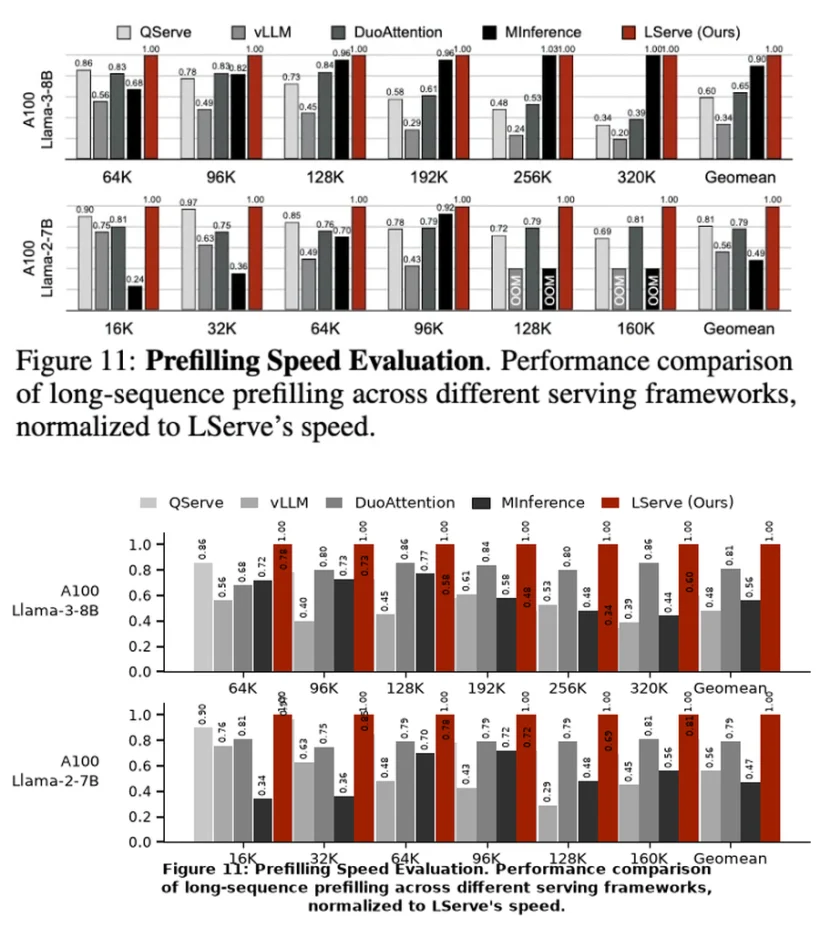
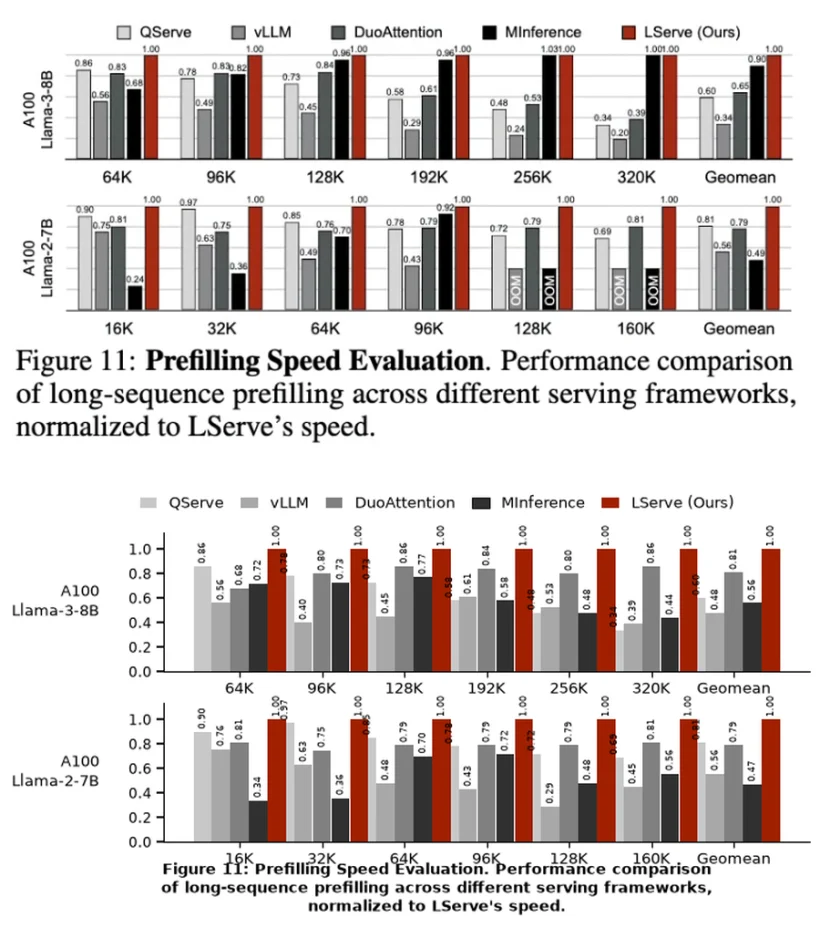
improve(replicas): 第七十轮 —— 08 密度收敛到 101%
行/列密度探针发现 08 的两个问题：
  行：原图 0.15/0.46/0.57/0.23/0.60/0.39/0.30/0.14
      我的 0.08/0.27/0.65/0.40/0.26/0.63/0.46/0.14  ← 整体偏下
  列：原图 0.21/0.41/0.41/0.41/0.38/0.35/0.37/0.30
      我的 0.03/0.14/0.47/0.49/0.51/0.49/0.46/0.30  ← 左侧空、右侧密

试错：
- 改边距（top 0.91→0.95、left 0.135→0.20、labelpad 18→26）
  → 反而 111%（左边距变大挤压绘图区，柱子相对更密），已回退
- 正解：柱宽 0.245 → 0.225、ylim 1.10 → 1.14
  → 墨迹 104% → 101%，AR 1.82（+1.0%）

当前：平均 100%，9/10 在 ±15% 内，AR 全部 ±1.6% 内

diff --git a/tools/figlab/replicas.py b/tools/figlab/replicas.py
@@ -517,7 +517,7 @@ def fig08():
           [0.34, 0.36, 0.70, 0.72, 0.48, 0.56, 0.47],
           [1.00, 1.00, 1.00, 1.00, 1.00, 1.00, 1.00]]),
     ]
-    w = 0.245
+    w = 0.225
     for ax, (ylabel, xt, mat) in zip(axes, rows):
         x = np.arange(len(xt))
         for i, (m, c) in enumerate(zip(methods, cols)):
@@ -529,7 +529,7 @@ def fig08():
                         fontsize=6.0, rotation=90)
         ax.set_xticks(x, xt, fontsize=9)
         ax.tick_params(axis="x", pad=3)
-        ax.set_ylim(0, 1.10)
+        ax.set_ylim(0, 1.14)
         ax.set_yticks([0, 0.2, 0.4, 0.6, 0.8, 1.0])
         ax.set_ylabel(ylabel, fontsize=9.5, rotation=0, ha="right", va="center", labelpad=18)
         ax.tick_params(axis="y", labelsize=8.5, length=4, width=1.2)
